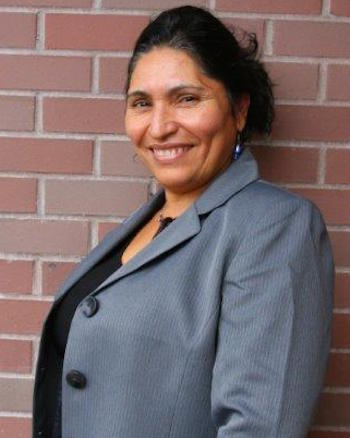
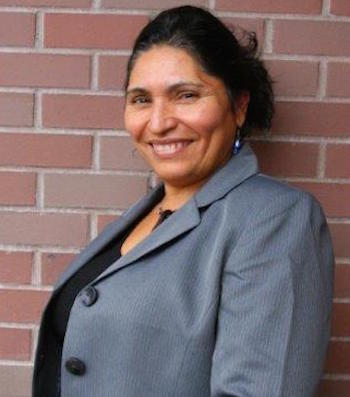
agregue traudccion aceptado registro

diff --git a/resources/views/pages/conferencistas.blade.php b/resources/views/pages/conferencistas.blade.php
@@ -25,8 +25,8 @@
                             {!! trans('conferencistas.Maru') !!} 
                         </div>
                         <div id="leermas" class="" style="display:block;">
-                            <button type="button" class="btn btn-leer btn-sm readMoreButton">Leer más</button>
-                            <button type="button" class="btn btn-leer btn-sm readLessButton" style="display:none">Leer menos</button>
+                            <button type="button" class="btn btn-leer btn-sm readMoreButton">{{ trans('conferencistas.leerMas') }}</button>
+                            <button type="button" class="btn btn-leer btn-sm readLessButton" style="display:none">{{ trans('conferencistas.leerMenos') }}</button>
                         </div>
                     </div>
                 </div>
@@ -45,8 +45,8 @@
                             {!! trans('conferencistas.MariaS') !!} 
                         </div>
                         <div id="leermas" class="" style="display:block;">
-                            <button type="button" class="btn btn-leer btn-sm readMoreButton">Leer más</button>
-                            <button type="button" class="btn btn-leer btn-sm readLessButton" style="display:none">Leer menos</button>
+                            <button type="button" class="btn btn-leer btn-sm readMoreButton">{{ trans('conferencistas.leerMas') }}</button>
+                            <button type="button" class="btn btn-leer btn-sm readLessButton" style="display:none">{{ trans('conferencistas.leerMenos') }}</button>
                         </div>
                     </div>
                 </div>
@@ -66,8 +66,8 @@
                         
                         </div>
                         <div id="leermas" class="" style="display:block;">
-                            <button type="button" class="btn btn-leer btn-sm readMoreButton">Leer más</button>
-                            <button type="button" class="btn btn-leer btn-sm readLessButton" style="display:none">Leer menos</button>
+                            <button type="button" class="btn btn-leer btn-sm readMoreButton">{{ trans('conferencistas.leerMas') }}</button>
+                            <button type="button" class="btn btn-leer btn-sm readLessButton" style="display:none">{{ trans('conferencistas.leerMenos') }}</button>
                         </div>
                     </div>
                 </div>
@@ -93,8 +93,8 @@
                        {!! trans('conferencistas.Elodia') !!} 
                        </div>
                         <div id="leermas" class="" style="display:block;">
-                            <button type="button" class="btn btn-leer btn-sm readMoreButton">Leer más</button>
-                            <button type="button" class="btn btn-leer btn-sm readLessButton" style="display:none">Leer menos</button>
+                            <button type="button" class="btn btn-leer btn-sm readMoreButton">{{ trans('conferencistas.leerMas') }}</button>
+                            <button type="button" class="btn btn-leer btn-sm readLessButton" style="display:none">{{ trans('conferencistas.leerMenos') }}</button>
                         </div>
                     </div>
                 </div>
@@ -103,7 +103,7 @@
             <div class="row">
                 <div class="col-xs-6 col-xs-offset-3 col-sm-3 col-sm-offset-1 col-md-4 col-md-offset-1  col-lg-4 col-lg-offset-1">
                     <div class="conferencistas1">
-                        <img  src="images/conferencista1.jpg"  class="img-responsive" alt="ana" width="250" height="200"/>
+                        <img  src="images/panelistaAna.jpg"  class="img-responsive" alt="ana" width="250" height="200"/>
                     </div>
                 </div>
                 <div class="col-xs-12 col-sm-7 col-md-6 col-lg-6">
@@ -112,8 +112,8 @@
                       {!! trans('conferencistas.Ana') !!} 
                       </div>
                         <div id="leermas" class="" style="display:block;">
-                            <button type="button" class="btn btn-leer btn-sm readMoreButton">Leer más</button>
-                            <button type="button" class="btn btn-leer btn-sm readLessButton" style="display:none">Leer menos</button>
+                            <button type="button" class="btn btn-leer btn-sm readMoreButton">{{ trans('conferencistas.leerMas') }}</button>
+                            <button type="button" class="btn btn-leer btn-sm readLessButton" style="display:none">{{ trans('conferencistas.leerMenos') }}</button>
                         </div>
                     </div>
                 </div>

diff --git a/resources/lang/es/conferencistas.php b/resources/lang/es/conferencistas.php
@@ -14,6 +14,8 @@ return [
                <p>Ella es una analista política invitada en Latino Radio y TV en Oregon, en el estado de Washington y en toda la nación. Es oradora a favor de los inmigrantes indocumentados, sirve en la comisión del Blue Ribbon de los indocumentados y ex indocumentados y se unió a la delegación nacional de campaña de deportación Not1More para Fergusson MO.</p>
                <p>Maru es también madre soltera y esta criando una hermosa adolescente, madura, de pensamiento crítico, quien recientemente apareció junto a ella en Democracy Now ¡</p>
              </div>',
+ 'leerMas' => 'Leer más',
+ 'leerMenos' => 'Leer menos',
  'MariaS' => '<h2>María-José Soerens <span class="bio"> Biografía</span></h2>
              <h3>Fundadora de Puentes Seattle</h3>
              <p>Maria-Jose “Coté” Soerens es la directora ejecutiva fundadora de Puentes, una organización dirigida por inmigrantes que moviliza recursos de salud mental para apoyar a los inmigrantes indocumentados y a sus familias que se enfentan a los estragos del un sistema de immigración quebrantado. </p>
@@ -34,8 +36,12 @@ return [
             and both of my parent do not know how to write or read. Growing up, I dreamed of having an education however, it was not available to me since we lived in a very small village and poverty. My father did not believe in education and my oldest brothers had to work a few days and go to school the other days of the week in order to finish elementary school and help the family.</p>',
 'Ana' => ' <h2>Ana Castro <span class="bio"> Biografía</span></h2>
            <h3>Propietaria de la Panadería Salvadoreña </h3>
-           <p>English writer Virginia Woolf was raised in a remarkable household. arents had been married and widowed before marrying each other. The eight children lived under one roof at 22 Hyde Park Gate, Kensington.</p>
-           <p>Two of Woolf’s brothers had been educated at Cambridge, but all the girls were taught at  home and utilized the splendid confines of the family’s lush Victorian library. Moreover,  Woolf’s parents were extremely well connected, both socially and artistically. Her father was  a friend to William Thackeray and George Henry Lewes, as</p>'
+           <p>Ana Castro y su hermana Aminta llegaron a los Estados Unidos huyendo de la guerra en El Salvador en la década del 80. Con mucho trabajo duro limpiando cuartos de hotel y un préstamo las hermanas pudieron abrir la Panadería Salvadoreña en West Seattle, WA. De tener nada, pasaron a abrir uno de los locales más visitados en el White Center.</p>
+           <p>“En El Salvador teníamos una pequeña panadería y tuvimos que dejar todo atrás por la guerra (…) Cuando vinimos a los Estados Unidos, yo nunca pensé que iba a estar haciendo lo que hacíamos en El Salvador. Solíamos limpiar en hoteles pero en mi mente, siempre pensé que no quería hacer eso por el resto de mi vida”, explicó la señora Castro.</p>
+           <p>En 1996 abrieron el local y lucharon durante años por mantenerlo abierto, aunque a veces era tentadora la idea de cerrar las puertas dado que no llegaban suficientes clientes. Ahorrar durante 14 años para cumplir su sueño, apoyo del sistema bancario y nunca perder la fe, fueron hechos claves para superar todas las trabas en el camino.</p>
+           <p>“Tienes que ser persistente y consistente en lo que estás haciendo, tal vez cuando comenzamos no teníamos suficientes clientes y pensamos en cerrar las puertas. Teníamos que mantenernos abiertos, no podíamos cerrar las puertas porque la panadera o el contador no estaban aquí. Tuve que aprender a hacer todo”, explicó. </p>
+           <p>Ana Castro y su hermana construyeron con mucho tesón uno de los negocios más conocidos del White Center. Ellas apostaron al vecindario cuando nadie se atrevía a hacerlo, ahora estás mujeres son una prueba de que el trabajo duro rinde frutos. La Panadería Salvadoreña es un negocio visitado por americanos y latinos, quienes adoran el gusto de las pupusas, las tortas tres leches y las quesadillas salvadoreñas.</p>'
+
 ];
 
 

diff --git a/resources/lang/en/conferencistas.php b/resources/lang/en/conferencistas.php
@@ -28,6 +28,8 @@ return [
              deportation campaign to Fergusson MO.</p>
              <p>Maru is also a single mother raising a mature, critical thinker and beautiful teenage girl who recently 
              appeared with her on Democracy Now! </p>',
+ 'leerMas' => 'Read More',
+ 'leerMenos' => 'Read Less',
 'MariaS' => '<h2>María-José Soerens <span class="bio">Biography</span></h2>
              <h3>Puentes Seattle</h3>
             <p>Maria-Jose “Coté” Soerens is the founding executive director of Puentes, an immigrant-led organization mobilizing mental health resources
@@ -55,6 +57,7 @@ return [
              <p>I support my parents economic in Mexico and lots of family members because there is a great need for basic needs. God has bless me in so many ways like my family, faith, an education, work, and getting to know so many people. This is just a little part of my life of so many blessings that it is hard to name all of them. And thanks be to God.</p>',
 'Ana' =>  '<h2>Ana Castro <span class="bio"> Biography</span></h2>
            <h3>Owner of Salvadorean Bakery </h3>
-           <p>English writer Virginia Woolf was raised in a remarkable household. arents had been married and widowed before marrying each other. The eight children lived under one roof at 22 Hyde Park Gate, Kensington.</p>
-           Two of Woolf’s brothers had been educated at Cambridge, but all the girls were taught at            home and utilized the              splendid confines of the family’s lush Victorian library. Moreover,  Woolf’s parents were extremely well connected, both                   socially and artistically. Her father was            a friend to William Thackeray and George Henry Lewes, as</p>'
+           <p>Ana Castro and her sister Aminta came to the US in the 80’s running away from the war in El Salvador. Now they are the owners of the Salvadorean Bakery at White Center, in West Seattle.  During 14 years, they saved money from their jobs cleaning hotel rooms. The dream came true in 1996. </p>
+           <p>“We had a small bakery in El Salvador, but we left, leaving everything behind because the war," said Ana Castro. They never thought about opening a bakery during the first years in this country, but Ana Castro always knew she didn’t want to clean hotel rooms for her whole life. </p>
+           <p>They opened the Salvadorean Bakery when nobody was willing to open a new business in White Center, and now they have a successful business offering up authentic food at a fair price. The message from Ana Castro to other women: “You have to be persistent, and consistent".</p>'
 ];

diff --git a/resources/lang/en/registro.php b/resources/lang/en/registro.php
@@ -5,7 +5,34 @@
 */
 return [
     'titulo' => 'Register for the Third Simposium of Latin Women 2016',
+    'tituloListaDeEspera' => 'El simposio ya está lleno! Registrate en la lista de espera!',
     'nombre' => 'Name',
     'apellido' => 'Last Name',
-    'cuantosNinos' =>  'How many children do you want to register?'
+    'telefono' => 'Teléfono',
+    'email' => 'Correo Electrónico',
+    'servicioGuarderialleno' => 'Servicio de guarderia ya esta lleno.',
+    'servicioGuarderia' => '¿Necesita servicio de guardería?',
+    'Si' =>  'Si',
+    'No' => 'No',
+    'cuantosNinos' =>  'How many children do you want to register?',
+    'maximoNinos' => 'Cada participante puede registrar máximo dos menores de edad entre 3 y 11 años de edades.',
+    'UnLugarGuarderia' => 'Solo queda un lugar en la guarderia',
+    'edaddenino' => 'El menor debe tener la edad entre 3 y 11 años',
+    'Uno' => 'Uno',
+    'NinoNumero' => 'Niña(o) número 1',
+    'Nombre1' => 'Nombre',
+    'Apellido1' => 'Apellido',
+    'Edad1' => 'Edad',
+    'Género1' => 'Género',
+    'Masculino1' => 'Masculino',
+    'Femenino1' => 'Femenino',
+    'Niña2' => 'Niña(o) número 2',
+    'Nombre2' => 'Nombre',
+    'Apellido2' => 'Apellido'
+    
+    
+    
+    
+    
 ];
+

diff --git a/resources/views/pages/patrocinadores.blade.php b/resources/views/pages/patrocinadores.blade.php
@@ -42,7 +42,7 @@
                 
                 <div class="col-sm-2">
                 <div class="thumbnail">
-                <img src="/images/patrocinadores/latinoAdvocacy.jpg" alt="LatinoAdvocacy"/>
+                <img src="/images/patrocinadores/mejariSushi.png" alt="Mejari"/>
                 <p>{{ trans('patrocinadores.Gracias1') }} </p>
                 </div>
                 </div>
@@ -67,7 +67,7 @@
                 
                 <div class="col-sm-2">
                 <div class="thumbnail">
-                <img src="/images/patrocinadores/puentes.png" alt="NSC"/>
+                <img src="/images/patrocinadores/latinoAdvocacy.jpg" alt="LatinoAdvocacy"/>
                 <p> {{ trans('patrocinadores.Gracias1') }} </p>
                 </div>
                 </div>
@@ -81,7 +81,7 @@
                 
                 <div class="col-sm-2">
                 <div class="thumbnail">
-                <img src="/images/patrocinadores/NSC.png" alt="NSC"/>
+                <img src="/images/patrocinadores/puentes.png" alt="Puentes"/>
                 <p> {{ trans('patrocinadores.Gracias1') }}  </p>
                 </div>
                 </div>

diff --git a/resources/lang/es/aceptado.php b/resources/lang/es/aceptado.php
@@ -1,7 +1,10 @@
 <?php
 
 return [
-   
-    'mensajeFecha' => 'Te esperamos el <span class="fecha1">sábado 21 de Mayo del 2016 </span>a partir de las <span class="fecha1"> 10:30 a.m. hasta las 3:00 p.m.</span></br> En las instalaciones de North Seattle College.'
   
+ 'mensajeFelicidades' => '"Felicidades ya eres parte del 3er Simposio de Mujeres Latinas"',
+ 'mensajeFecha' => 'Te esperamos el <span class="fecha1">sábado 21 de Mayo del 2016 </span>a partir de las <span class="fecha1"> 10:30 a.m. hasta las 3:00 p.m.</span></br> En las instalaciones de North Seattle College.',
+ 'mensajeServicioGuarderia' => 'Recibiras un correo electrónico con más información sobre el servicio de guardería',
+ 'mensajeCancelar' => 'En caso de no asistir cancela tu lugar enviando un correo electrónico a <span class="cancelar"> simposiomujereslatinas@gmail.com</span>
+      o comunicarse al número teléfonico <span class="cancelar">206-934-3749</span>'
 ];

diff --git a/resources/lang/en/aceptado.php b/resources/lang/en/aceptado.php
@@ -1,7 +1,11 @@
 <?php
 
 return [
-   
-    'mensajeFecha' => 'We jdfjkhad <span class="fecha1">sábado 21 de Mayo del 2016 </span>a partir de las <span class="fecha1"> 10:30 a.m. hasta las 3:00 p.m.</span></br> En las instalaciones de North Seattle College.'
   
+ 'mensajeFelicidades' => '"Congratulations already you are a part of 3er Symposium of Latin Women"',
+ 'mensajeFecha' => 'We wait for you on <span class="fecha1">Saturday, the 21st of May, 2016 </span>from <span class="fecha1"> 10:30 a.m. until 3:00 p.m.</span></br> 
+                   In North Seattle College.',
+ 'mensajeServicioGuarderia' => 'You will receive an e-mail with more information about the service of daycare.',
+ 'mensajeCancelar' => 'In case of being unable to attend, please cancel your place by emailing to <span class="cancelar"> simposiomujereslatinas@gmail.com</span>
+      or communicate the phone number <span class="cancelar">206-934-3749</span>'
 ];

diff --git a/resources/views/pages/registro/aceptado.blade.php b/resources/views/pages/registro/aceptado.blade.php
@@ -4,13 +4,12 @@
 <div class="container">
   <div class="fondo1">
     <div class="registrada">
-      <h1>"Felicidades ya eres parte del 3er Simposio de Mujeres Latinas"</h1>
+      <h1>{{ trans('aceptado.mensajeFelicidades') }}</h1>
       <h2>{!! trans('aceptado.mensajeFecha') !!}</h2>
       @if ($hayGuarderia == true)
-      <h3>Recibiras un correo electrónico con más información sobre el servicio de guardería</h3>
+      <h3>{{ trans('aceptado.mensajeServicioGuarderia') }}</h3>
       @endif
-      <p>En caso de no asistir cancela tu lugar enviando un correo electrónico a <span class="cancelar"> simposiomujereslatinas@gmail.com</span>
-      o comunicarse al número teléfonico <span class="cancelar">206-934-3749</span> Ext.<span class="cancelar">2336.</span></p>
+      <p>{!! trans('aceptado.mensajeCancelar') !!}</p>
    
     </div>  
   </div> <!-- Fondo1 -->

diff --git a/resources/lang/es/registro.php b/resources/lang/es/registro.php
@@ -12,7 +12,7 @@ return [
     'email' => 'Correo Electrónico',
     'servicioGuarderialleno' => 'Servicio de guarderia ya esta lleno.',
     'servicioGuarderia' => '¿Necesita servicio de guardería?',
-    'No' =>  'Si',
+    'Si' =>  'Si',
     'No' => 'No',
     'cuantosNinos' =>  '¿Cuántos niños o niñas va a registrar?',
     'maximoNinos' => 'Cada participante puede registrar máximo dos menores de edad entre 3 y 11 años de edades.',

diff --git a/resources/views/pages/registro/create.blade.php b/resources/views/pages/registro/create.blade.php
@@ -35,7 +35,8 @@
           </div>
         </div>
       </div>
-      @if ($daycareCount >= $settings->daycare_limit)
+      @if ($attendeeCount >= $settings->number_of_attendees)
+      @elseif ($daycareCount >= $settings->daycare_limit)
         <h3>{{ trans('registro.servicioGuarderialleno') }}</h3>
       @else
         <div class="section2R">
